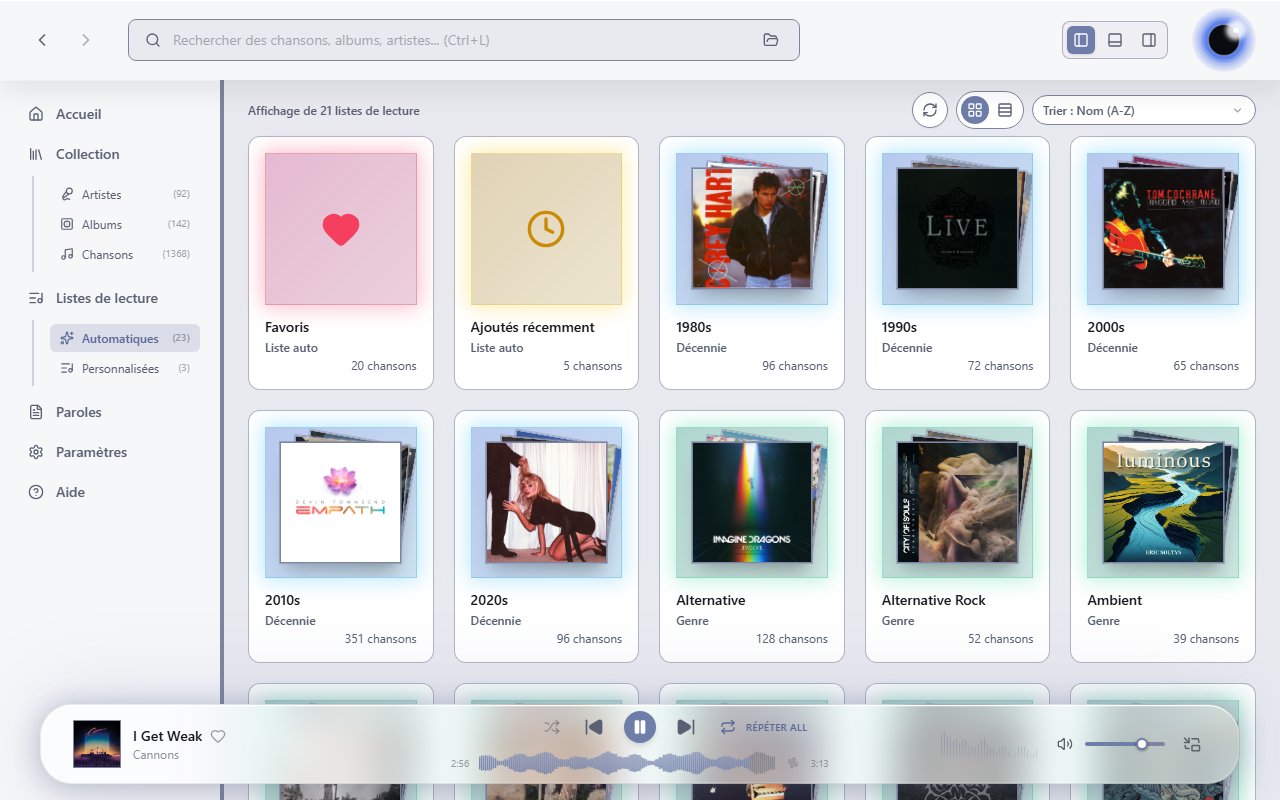
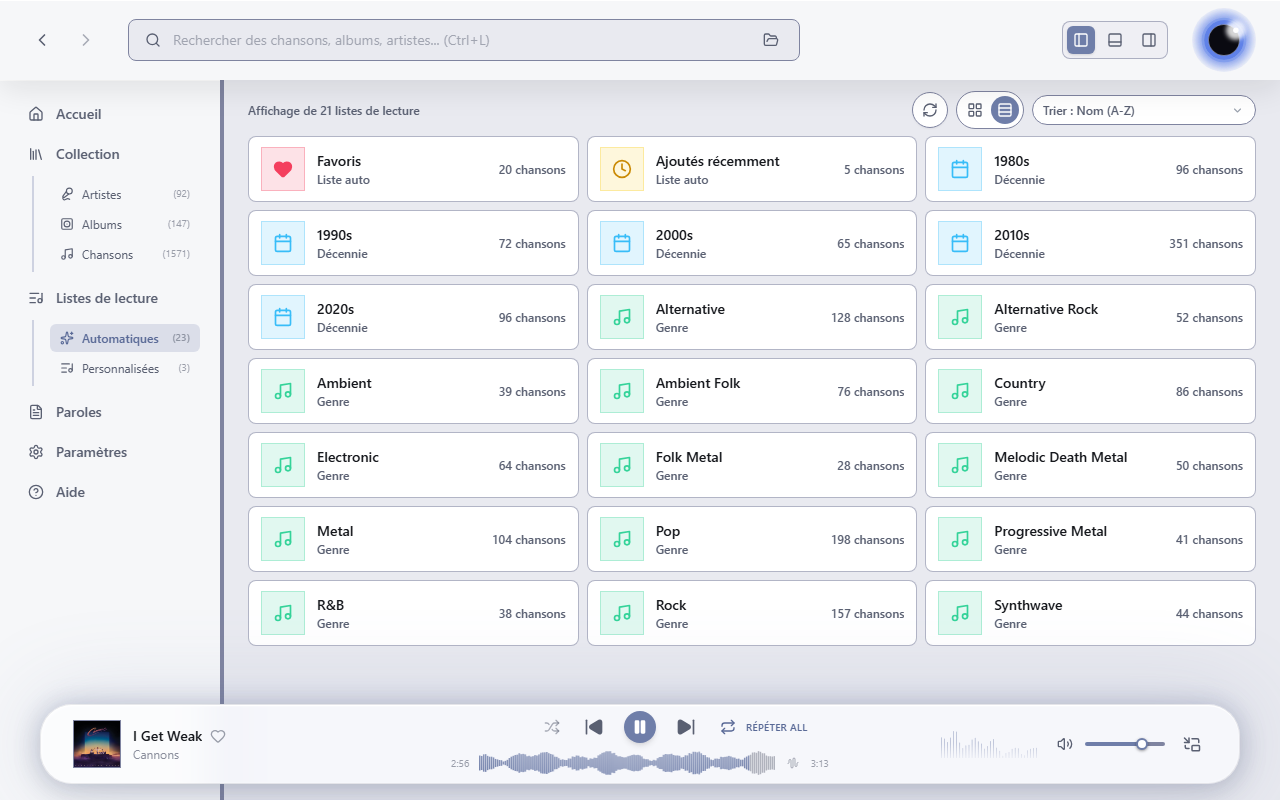
docs(screenshots): capture Auto playlists screenshot in compact rows view
Adds a click-rows-view harness action and wires it into the playlist-auto
mock-config entry so the manual's Auto Playlists screenshot reflects the
Row/Grid toggle's compact rows UI instead of the default card grid.

diff --git a/scripts/take-screenshots.ts b/scripts/take-screenshots.ts
@@ -487,6 +487,10 @@ async function main() {
       await searchInput.fill("key:d");
       await page.waitForTimeout(400);
     },
+    "click-rows-view": async (page, _featured, language) => {
+      await page.getByRole("button", { name: t(language, "collection.viewRows"), exact: true }).click();
+      await page.waitForTimeout(400);
+    },
     "toggle-miniplayer": async (page) => {
       await page.keyboard.press("Control+m");
       await page.waitForTimeout(400);
